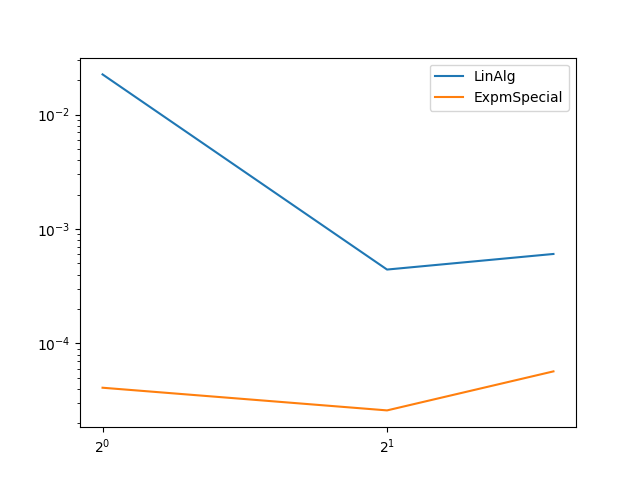
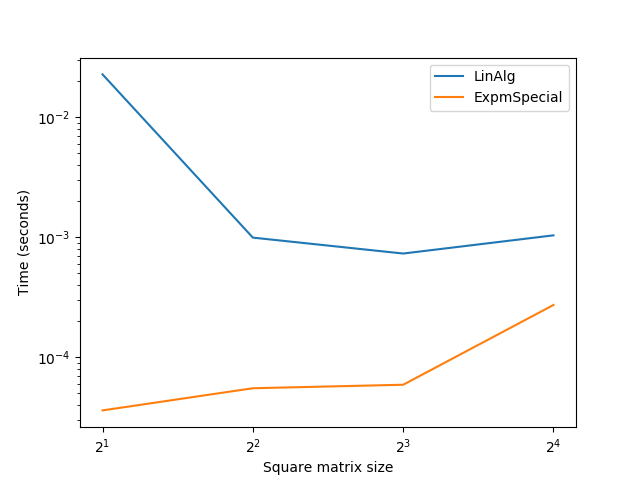
Changed axis titles in plots. Other minor semantic changes.

diff --git a/test_matrices/compare_linalg.py b/test_matrices/compare_linalg.py
@@ -7,7 +7,8 @@ import random_matrix as rm
 import matplotlib.pyplot as plt
 
 # matrix_size: how many qubits. matrix will be square of 2^size X 2^size
-matrix_sizes = [1,2,3]
+#matrix_sizes = [1,2,3]
+matrix_sizes = range(1,5)
 track_times=np.zeros([len(matrix_sizes), 4])
 
 
@@ -26,7 +27,7 @@ for i in range(0,len(matrix_sizes)):
 	time_linalg = b-a
 	time_expm = d-c
 
-	track_times[i,0]= matrix_sizes[i]
+	track_times[i,0]= 2**matrix_sizes[i]
 	track_times[i,1]= time_linalg
 	track_times[i,2]= time_expm
 	track_times[i,3]= time_linalg/time_expm
@@ -35,12 +36,16 @@ for i in range(0,len(matrix_sizes)):
 plt.semilogx(basex=2)
 plt.semilogy(track_times[:,0], track_times[:,1], label='LinAlg')
 plt.semilogy(track_times[:,0], track_times[:,2], label='ExpmSpecial')
+plt.xlabel('Square matrix size')
+plt.ylabel('Time (seconds)')
 plt.legend()
 plt.savefig('times.png')
 
 plt.clf()
 plt.semilogx(basex=2)
 plt.plot(track_times[:,0], track_times[:,3], label='Ratio improvement using ExpmSpecial')
-plt.axhline(y=1, color='black', label='Improvement')
+plt.axhline(y=1, color='black', label='Improvement/Loss Cutoff')
+plt.xlabel('Square matrix size')
+plt.ylabel('Improvement')
 plt.legend()
 plt.savefig('improvement.png')
